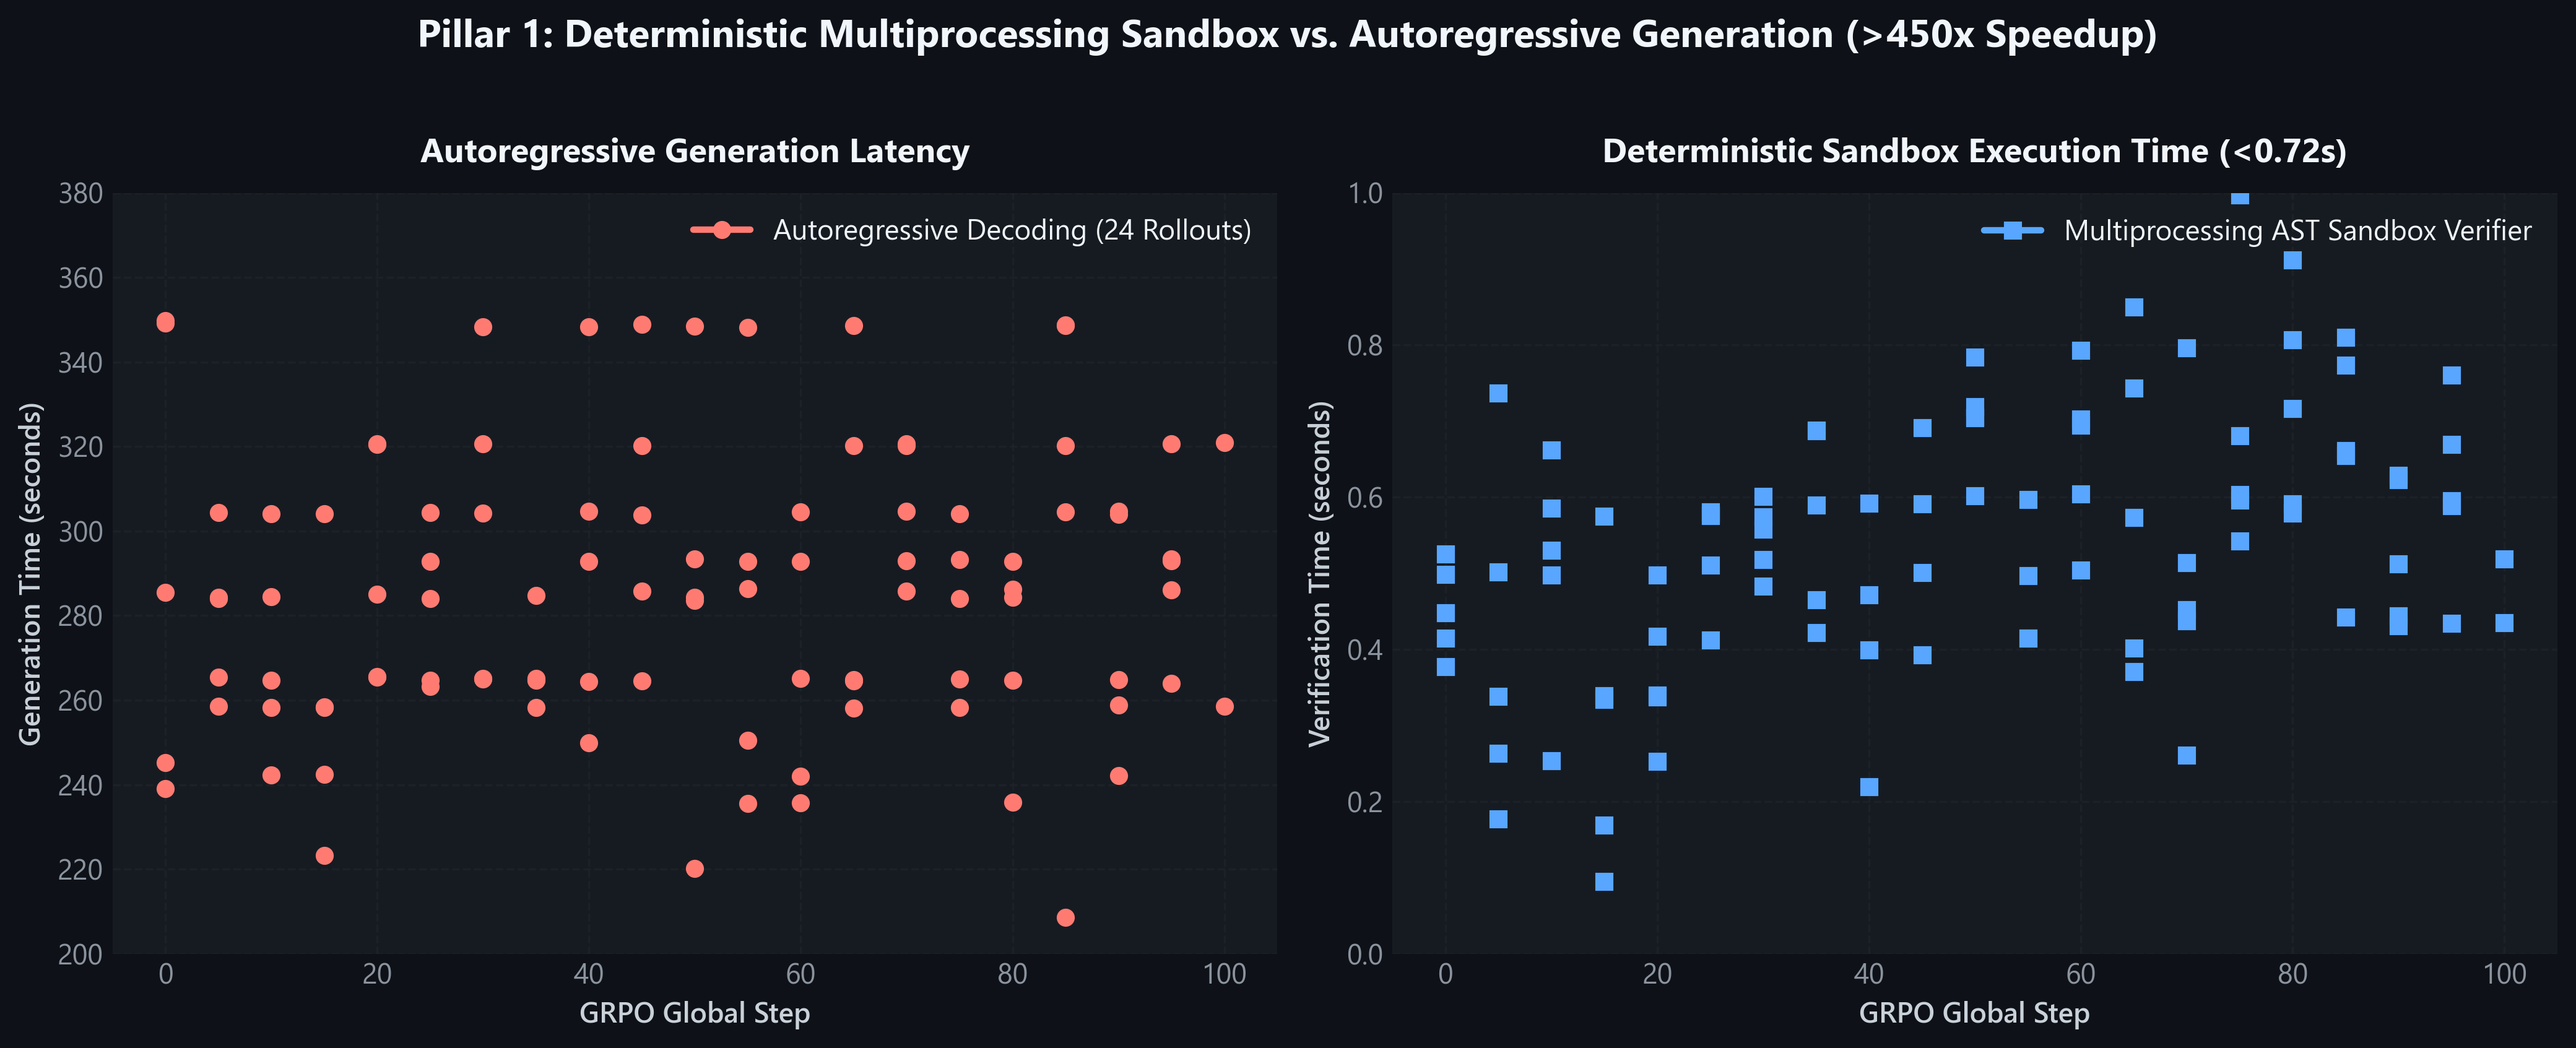
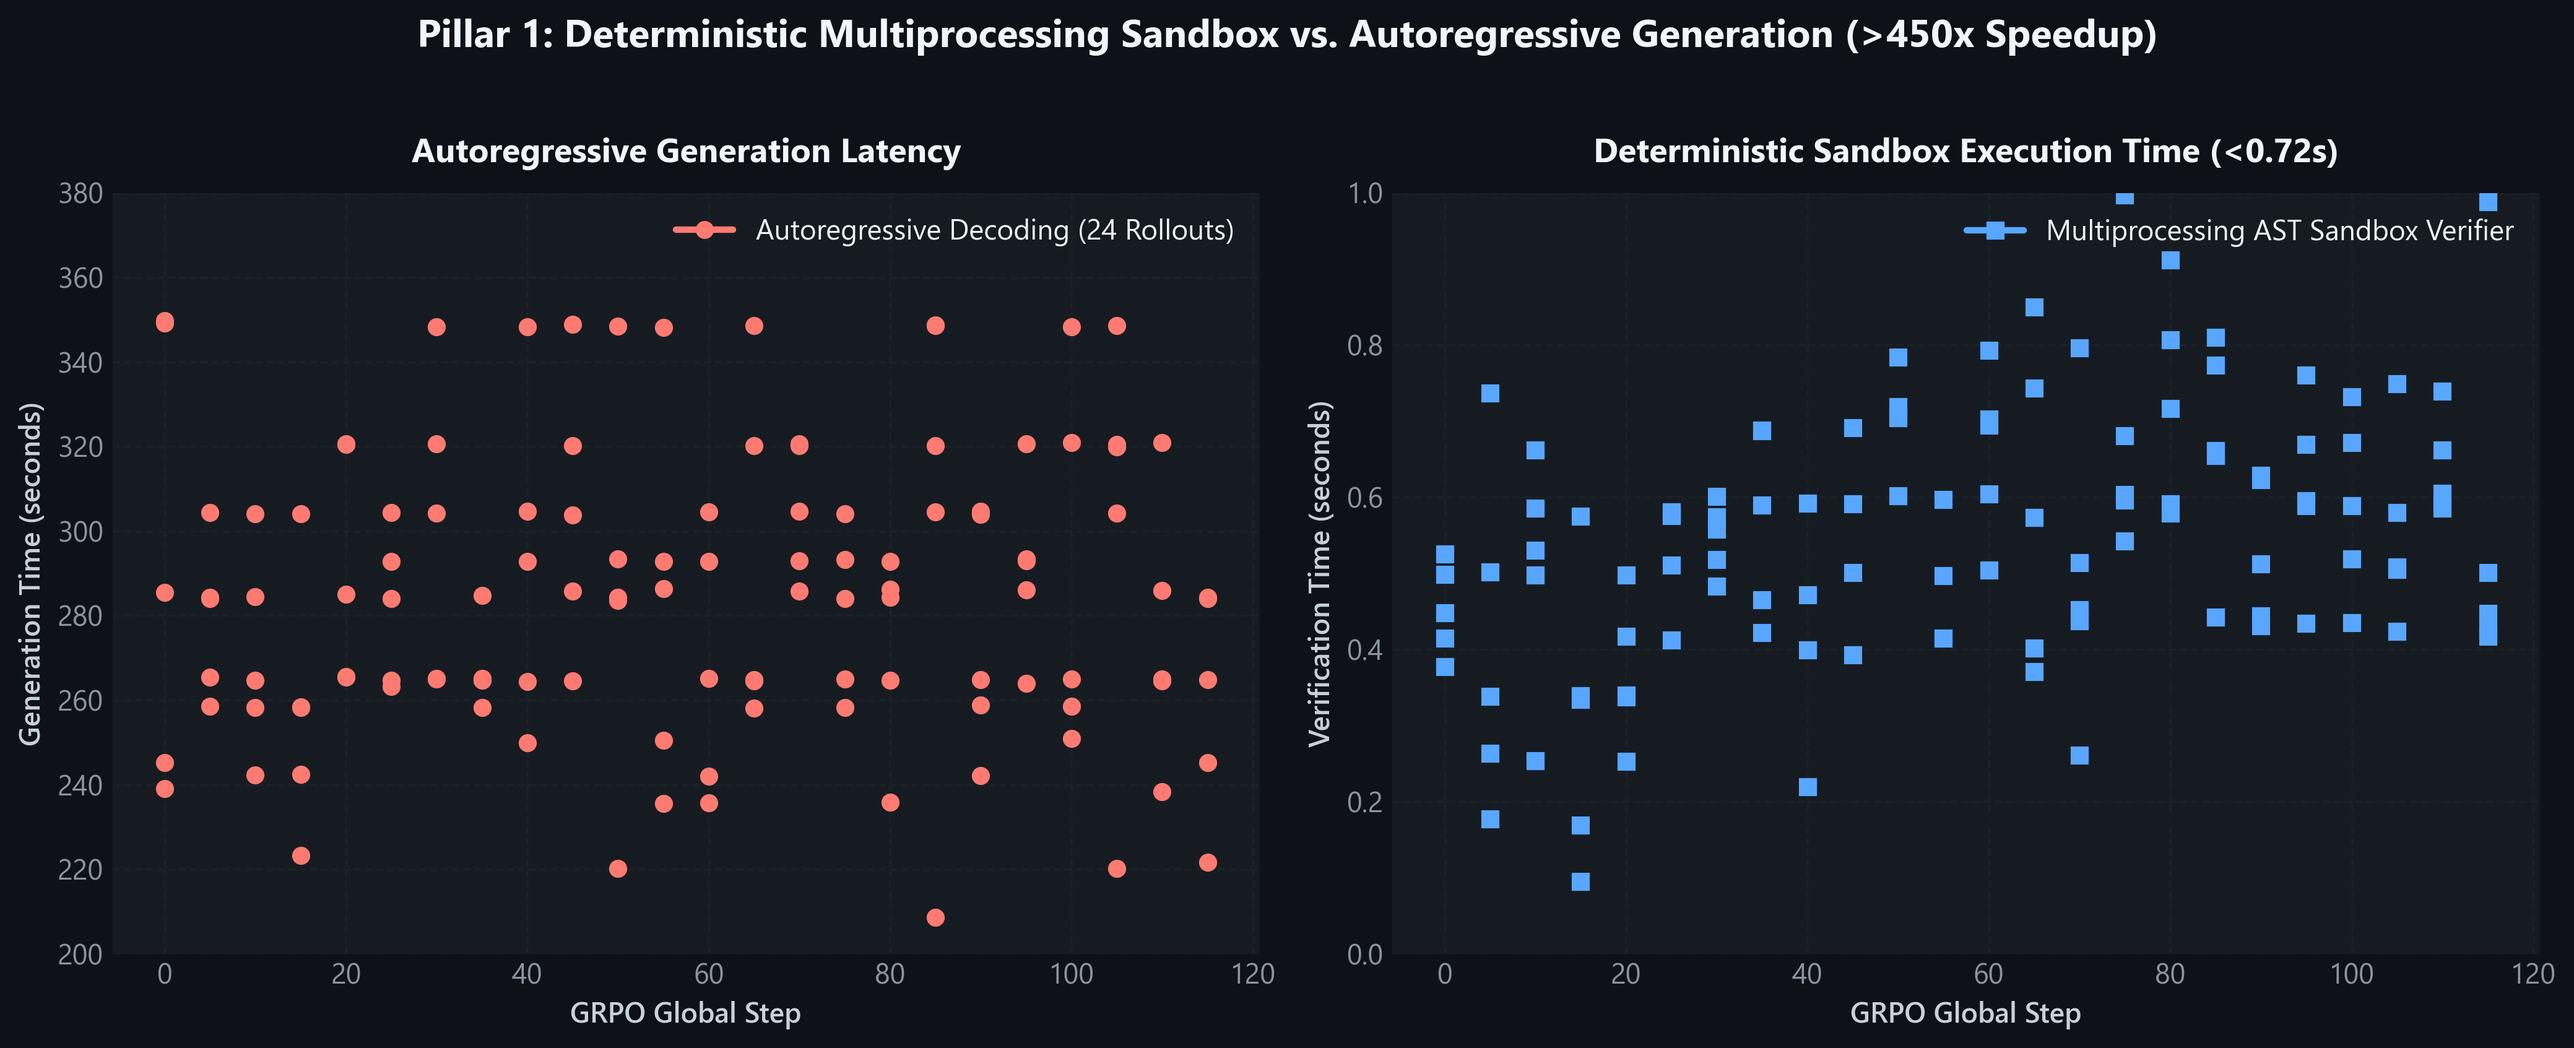
telemetry: update empirical charts and documentation to final step 120 completion

diff --git a/README.md b/README.md
@@ -69,7 +69,7 @@ Evaluated across $N=100$ out-of-distribution crisis scenarios (`--dry_run` basel
 
 ## 3. Empirical Training Telemetry & Systems Profiling (Weights & Biases)
 
-Live telemetry captured from run [`brisk-waterfall-3` (`lja961ve`)](https://wandb.ai/akshaykumarhudedmani-rl/goldenhour-rl/runs/lja961ve) across 100 GRPO optimization steps (4.47M tokens processed, 1.33 epochs) on dual Tesla T4 GPUs:
+Live telemetry captured from run [`brisk-waterfall-3` (`lja961ve`)](https://wandb.ai/akshaykumarhudedmani-rl/goldenhour-rl/runs/lja961ve) across all 120 GRPO optimization steps (completed post-training run) on dual Tesla T4 GPUs:
 
 ### Pillar 1: Multiprocessing Sandbox vs. Autoregressive Generation (>450x Speedup)
 ![Multiprocessing Sandbox vs Generation](assets/image_f16a0d.png)
